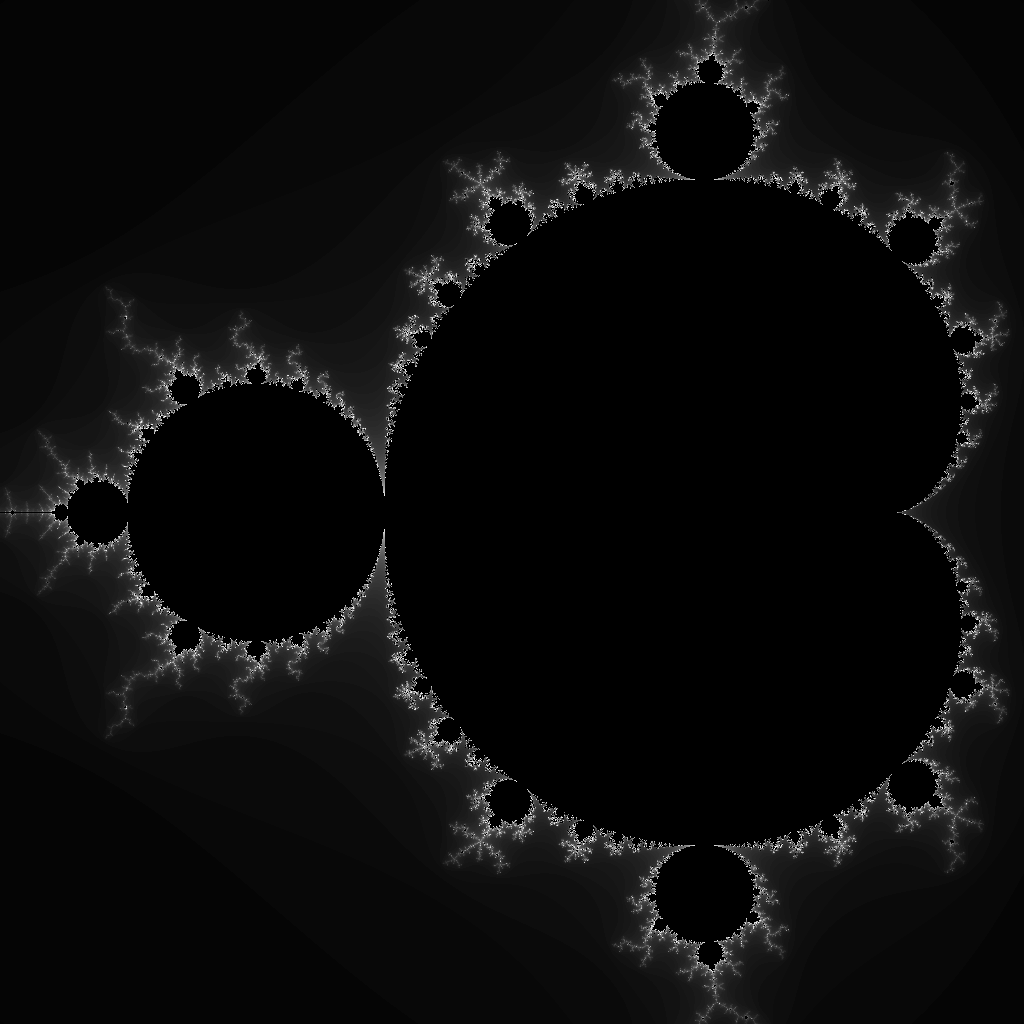
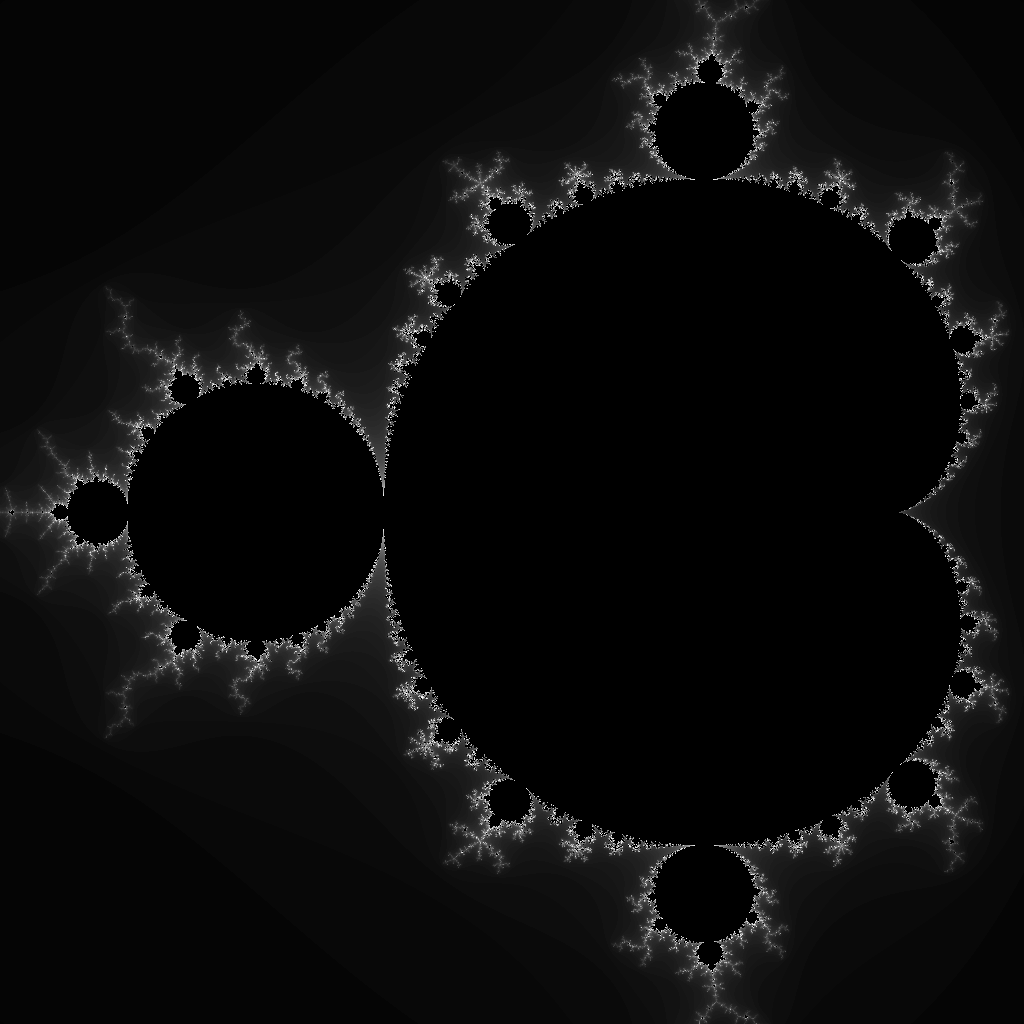
Added AA support

diff --git a/renderer.py b/renderer.py
@@ -9,7 +9,7 @@ class FullRenderer():
 	def __init__(self, xRes = 512, yRes = 512, AA = 0, maxIters = 100):
 		self.xRes = xRes
 		self.yRes = yRes
-		self.AA = min(max(AA, 0), 8)
+		self.AA = min(max(AA-1, 0), 7)
 		self.maxIters = maxIters
 
 		self.cam = Camera(xRes, yRes, xPos = -.5)
@@ -22,10 +22,10 @@ class FullRenderer():
 		for y in range(self.yRes):
 			for x in range(self.xRes):
 				pix = []
-				AAList = [(x+.5, y+.1), (x+.75, y+.25), (x+.9, y+.)]
+				AAList = [(x+.25, y+.25), (x+.75, y+.75), (x+.25, y+.75), (x+.75, y+.25), (x+.5, y+.1), (x+.5, y+.9), (x+.1, y+.5), (x+.9, y+.5)]
 				for i in range(self.AA+1):
-					pix.append(mandelbrot.render(self.cam.convertX(x), self.cam.convertY(y), self.maxIters))
-				image[x][y] = sum(pix)
+					pix.append(mandelbrot.render(self.cam.convertX(AAList[i][0]), self.cam.convertY(AAList[i][1]), self.maxIters))
+				image[y][x] = sum(pix)
 
 		print("Render time was " + str(time.clock()-t) + " seconds.")
 		return image
@@ -185,7 +185,7 @@ class Quad():
 
 if __name__ == "__main__":
 	res = 1024
-	fullR = FullRenderer(xRes = res, yRes = res)
+	fullR = FullRenderer(xRes = res, yRes = res, AA = 0)
 	quadR = QuadRenderer(res = res, AA = 2, disableMaxResAA = False, subdivMax = 15000)
 	imsave('dynamic.png', quadR.render())
 	imsave('fullRes.png', fullR.render())
